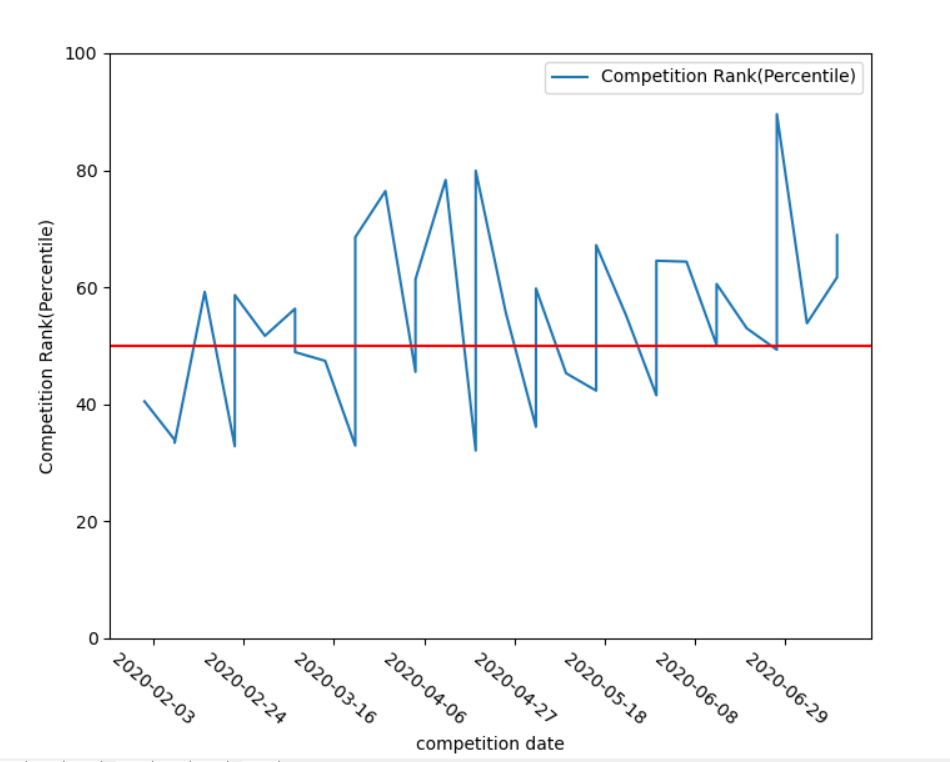
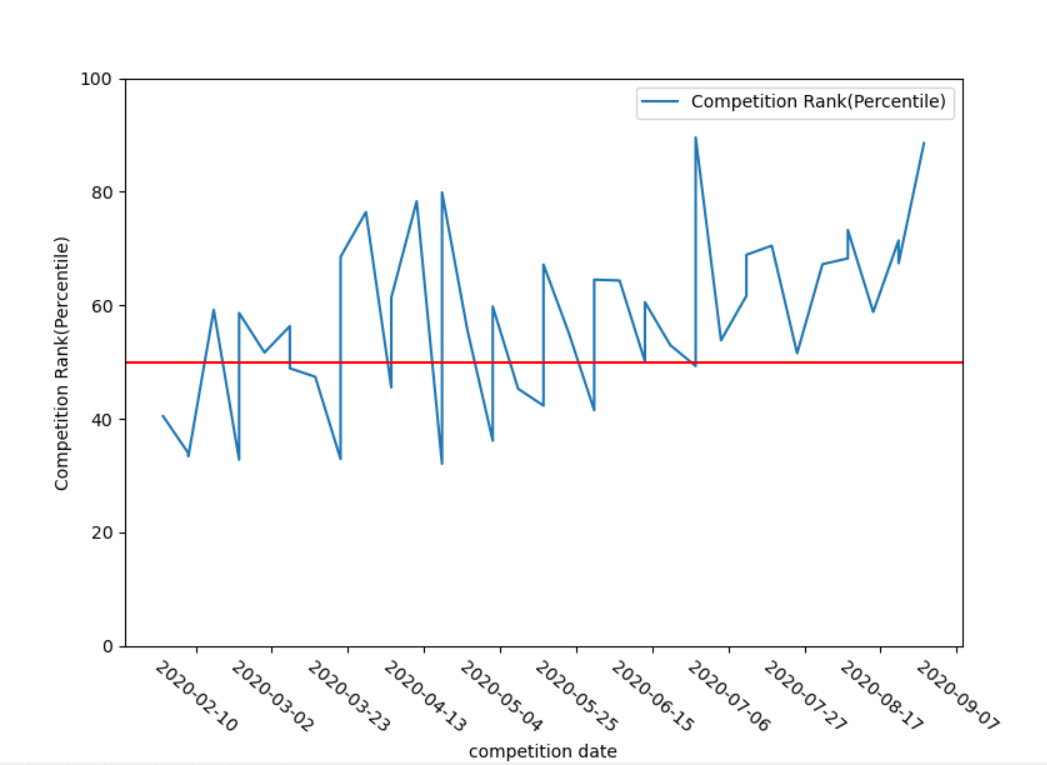
updating charts and graphs

Changed region(s): [[0.0305, 0.0604, 0.9463, 0.9961], [0.9158, 0.9055, 0.9463, 0.9659]]

diff --git a/graphlogic.py b/graphlogic.py
@@ -4,6 +4,16 @@ import datetime
 
 
 results = [
+    ['08/29', 88.558],
+    ['08/22', 67.407],
+    ['08/22', 71.441],
+    ['08/15', 58.828],
+    ['08/08', 73.277],
+    ['08/08', 68.269],
+    ['08/01', 67.249],
+    ['07/25', 51.554],
+    # ['07/25', 26.368],  # Redacted, connection issues
+    ['07/18', 70.512],
     ['07/11', 68.907],
     ['07/11', 61.688],
     ['07/04', 53.835],

diff --git a/README.MD b/README.MD
@@ -1,16 +1,25 @@
 # My Leetcode solutions 
 
-CURRENT GLOBAL RANKING (as of 2020-07-18):
-38443 / 111993 (of active participants)
+CURRENT GLOBAL RANKING: 31283 / 123993 (of active participants)(last updated 2020-8-30)
 
 ![Graph of Ranks](https://github.com/BradleyPelton/Leetcode-Solutions/blob/master/percentilechart.png)
 
 ## TOP FINISHES
+- 08/29 weekly contest   RANK: 1596 / 13949, PERCENTILE: 88.558
 - 04/18 weekly contest  RANK: 2855 / 14208, PERCENTILE: 79.905
 - 04/11 weekly contest  RANK: 2960 / 13663 PERCENTILE: 78.335
-- 03/28 weekly contest  RANK: 2756 / 11695 PERCENTILE: 76.434
 
 ## RECENT FINISHES
+- 08/29 weekly contest   RANK: 1596 / 13949, PERCENTILE: 88.558
+- 08/22 weekly contest   RANK: 4915 / 15080, PERCENTILE: 67.407
+- 08/22 biweekly contest   RANK: 3246 / 11366, PERCENTILE: 71.441
+- 08/15 weekly contest   RANK: 5918 / 14374, PERCENTILE: 58.828
+- 08/08 weekly contest   RANK: 4173 / 15616, PERCENTILE: 73.277
+- 08/08 biweekly contest   RANK: 3320 / 10463, PERCENTILE: 68.269
+- 08/01 weekly contest   RANK: 5038 / 15383, PERCENTILE: 67.249
+- 07/25 weekly contest   RANK: 6932 / 14309, PERCENTILE: 51.554
+- 07/25 biweekly contest   RANK: 6389 / 8677, PERCENTILE: 26.368  ((UNRATED, (personal) CONNECTION ISSUES))
+- 07/18 weekly contest   RANK: 4468 / 15152, PERCENTILE: 70.512
 - 07/11 weekly contest   RANK: 4348 / 13984, PERCENTILE: 68.907
 - 07/11 biweekly contest RANK: 3132 / 8175, PERCENTILE: 61.688
 - 07/04 weekly contest   RANK: 6602 / 14301, PERCENTILE: 53.835
